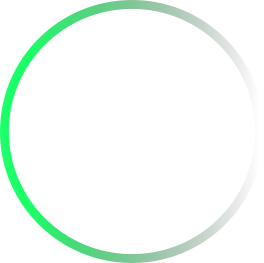
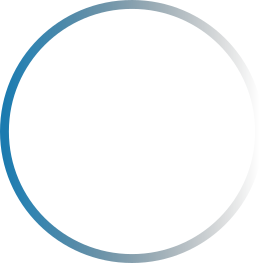
further color changes

Changed region(s): [[0.0, 0.0, 0.6061, 1.0]]

diff --git a/public/index.html b/public/index.html
@@ -4,8 +4,8 @@
         <meta charset="utf-8" />
         <link rel="icon" href="%PUBLIC_URL%/favicon.ico" />
         <meta name="viewport" content="width=device-width, initial-scale=1" />
-        <meta name="theme-color" content="#000000" />
-        <meta name="description" content="Web site created using create-react-app" />
+        <meta name="theme-color" content="#1A77AA" />
+        <meta name="description" content="Trash Assistant" />
         <link rel="apple-touch-icon" href="%PUBLIC_URL%/logo192.png" />
         <link rel="manifest" href="%PUBLIC_URL%/manifest.json" />
         <title>Trash Assistant</title>

diff --git a/src/constants.ts b/src/constants.ts
@@ -17,7 +17,7 @@ export const database: DatabaseRecord[] = [
 
 // Global constants
 export const appName = "Trash Assistant";
-export const accentColor = "hsl(140,100%,60%)";
+export const accentColor = "#1A77AA";
 
 // Global data structures
 export interface DatabaseRecord {
